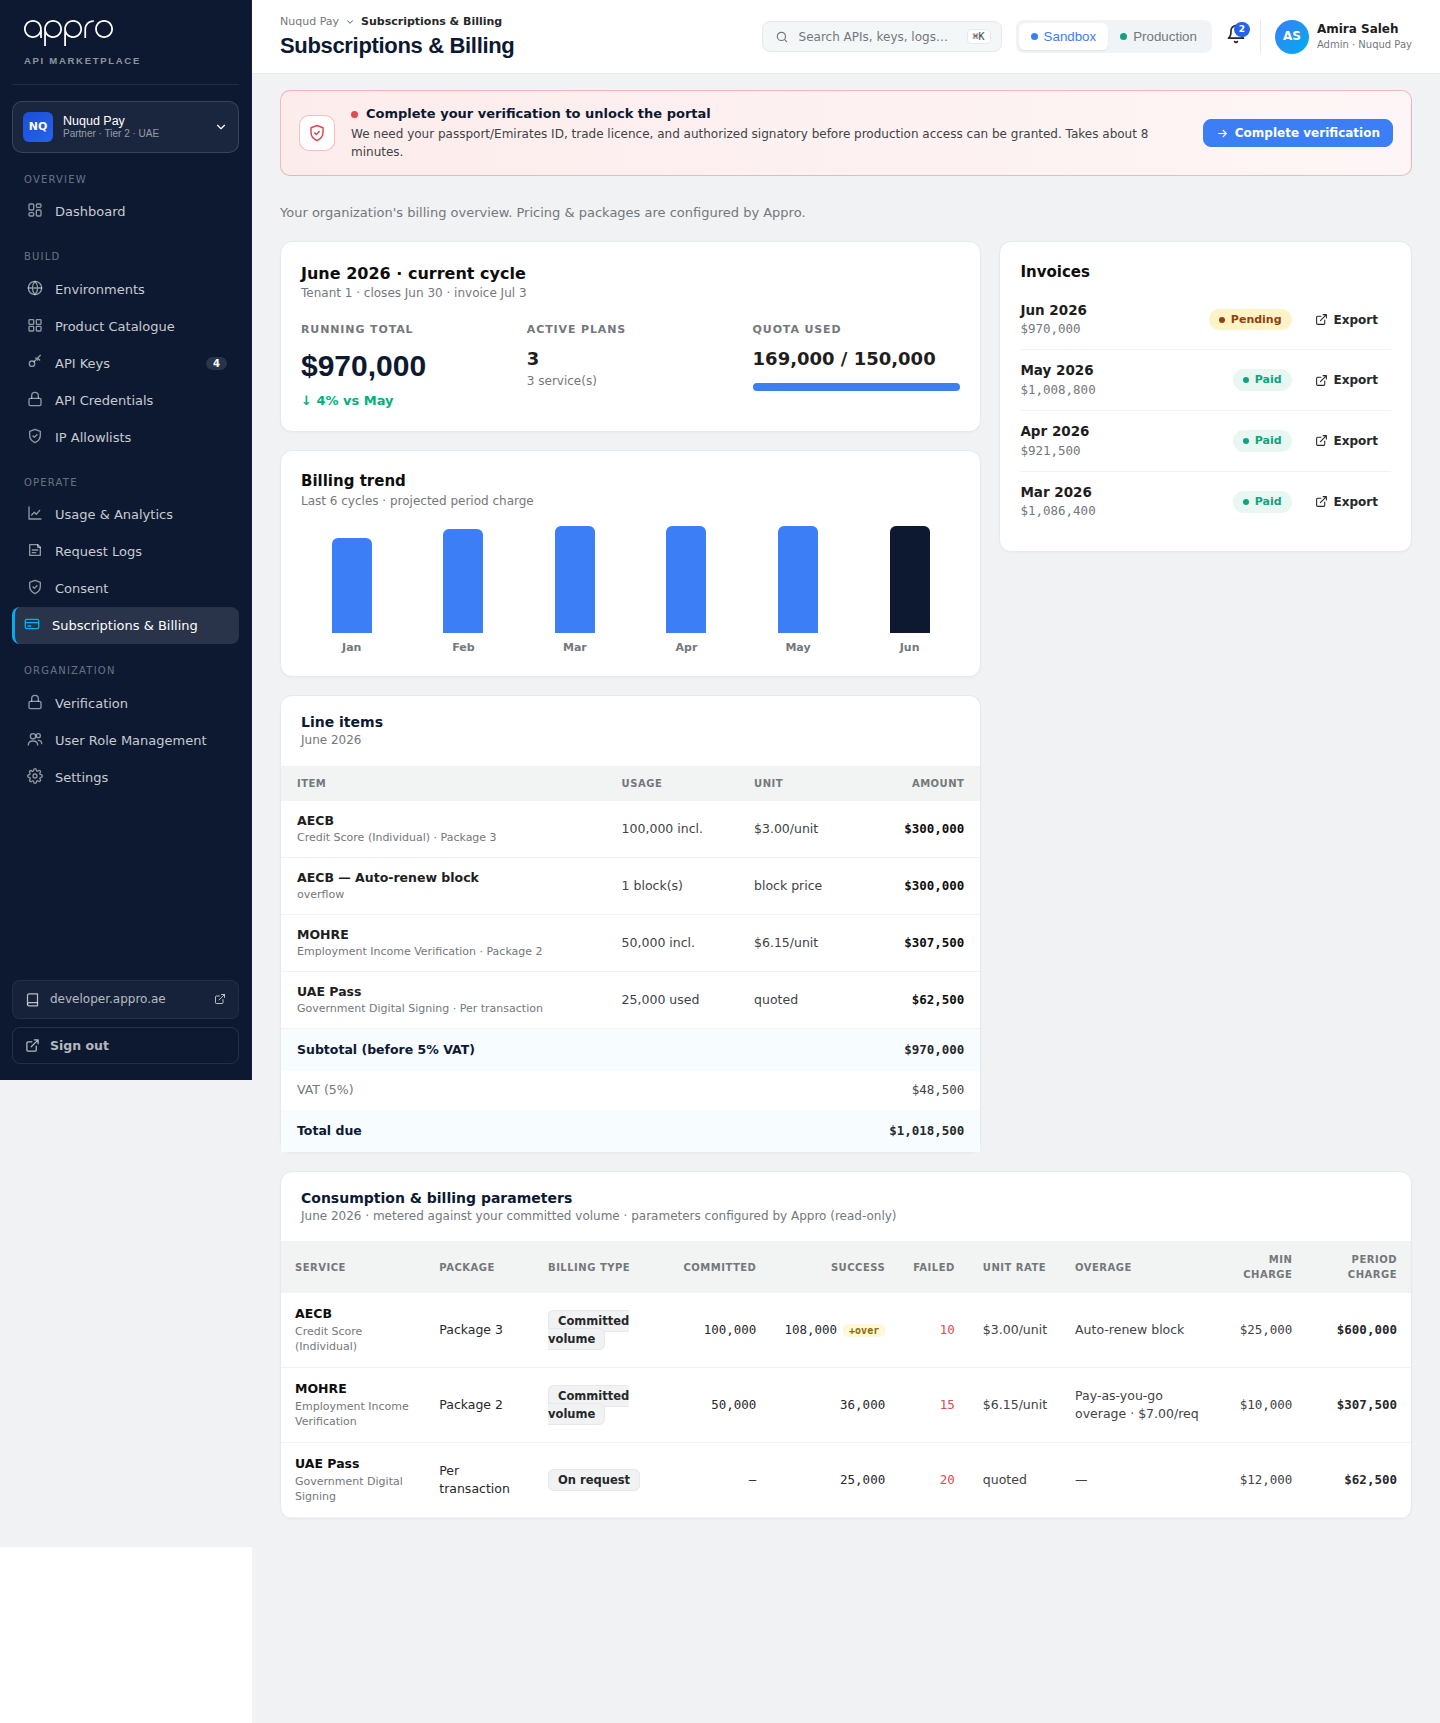
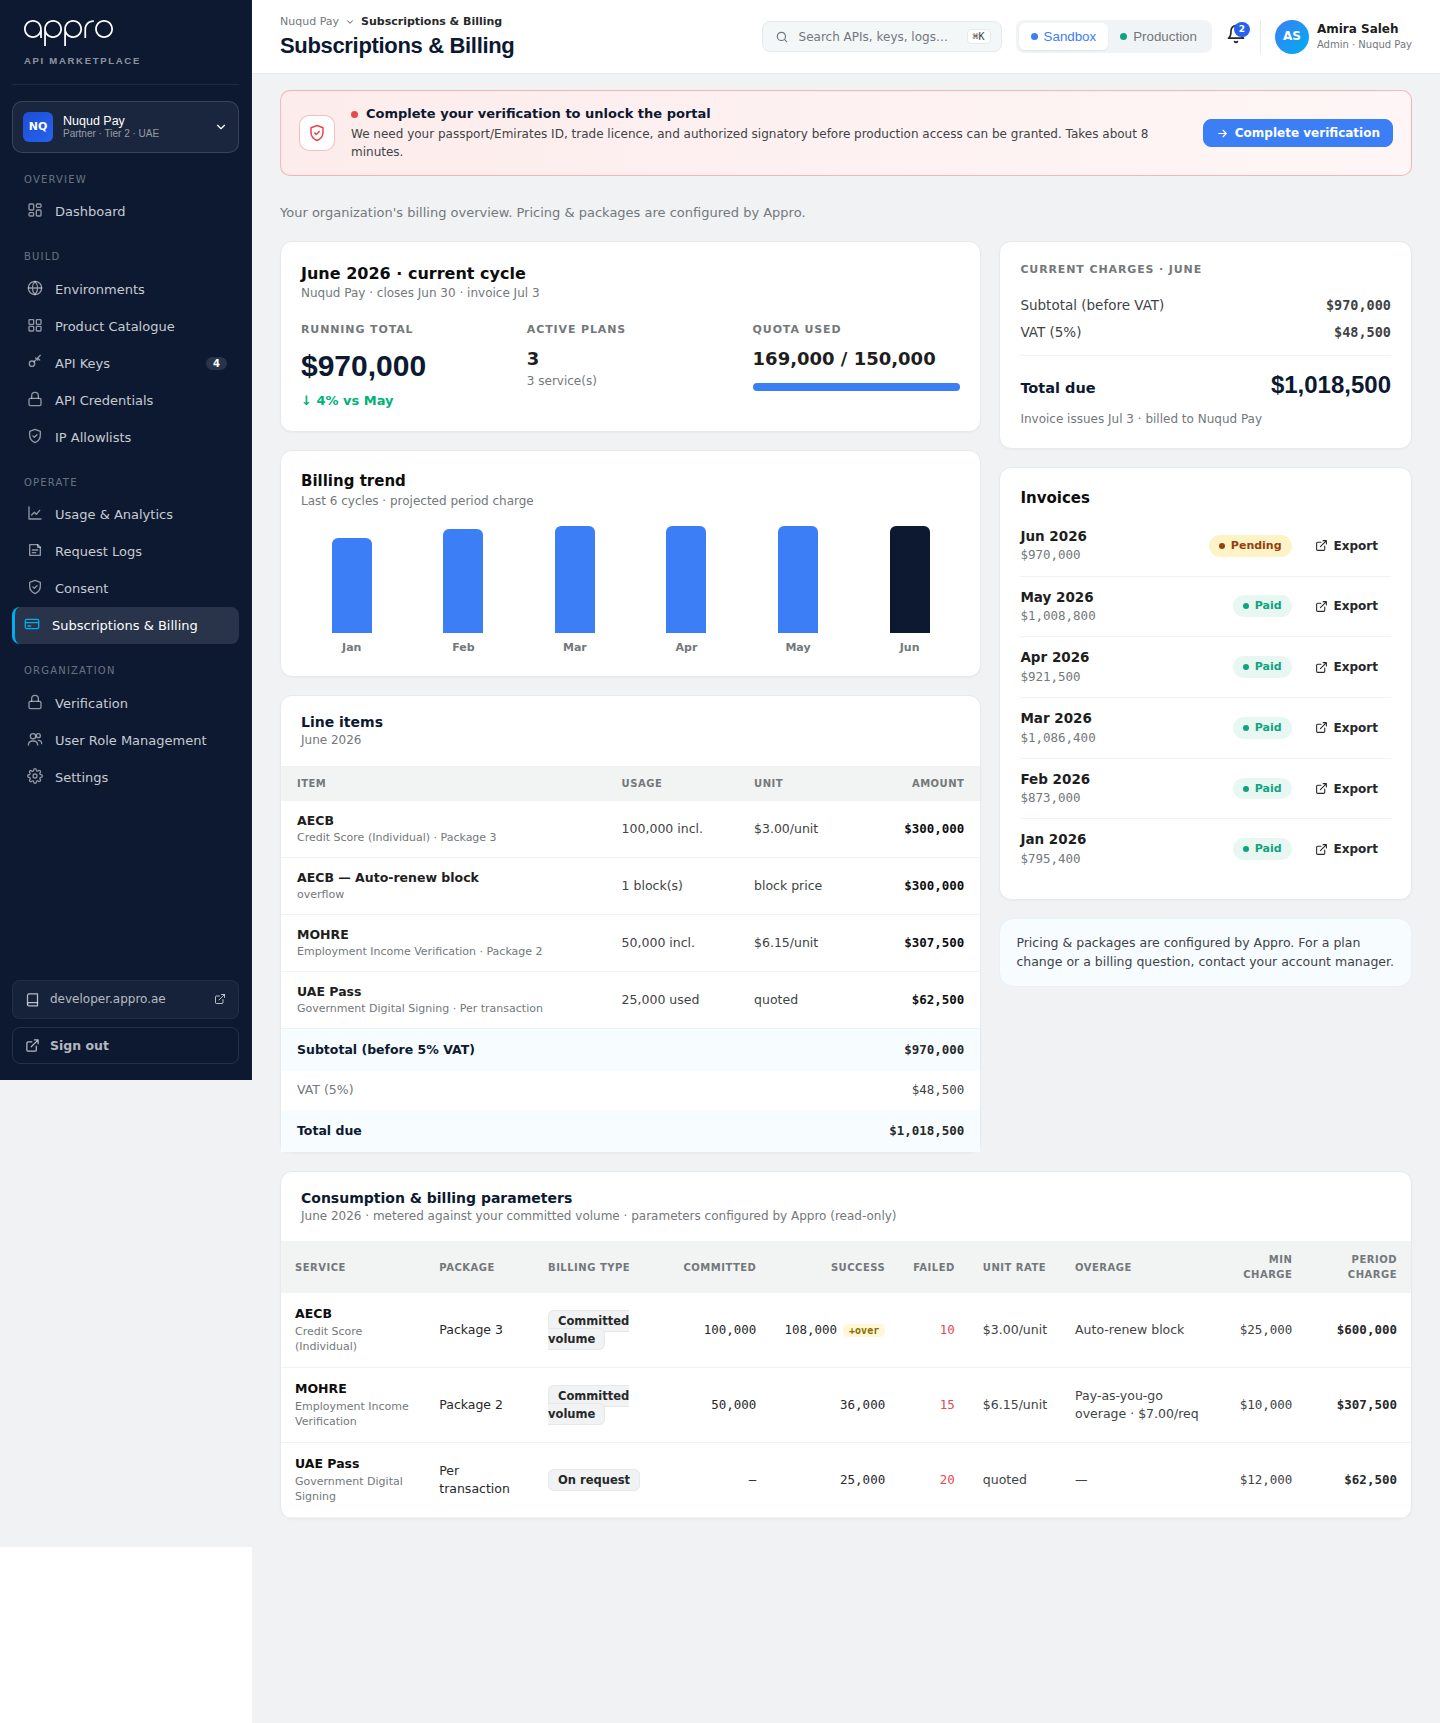
Tenant billing: rebalance right column — Current charges summary, 6-cycle invoices, info note
Fills the empty band under the Invoices card: a Current charges card
(subtotal / VAT / total due, invoice date), the Invoices list extended
to the same 6 cycles as the trend chart, and a pricing info note.
Screen shows the signed-in org name.

Claude-Session: https://claude.ai/code/session_01K4sYx62rsZE8FLFyiFKqEH

diff --git a/customer/js/08-customer-billing.jsx b/customer/js/08-customer-billing.jsx
@@ -5,6 +5,7 @@ const MYTENANT = 'T1';
 
 function CustomerBilling() {
   const t = CB.state.tenants.find(x => x.id === MYTENANT) || CB.state.tenants[0];
+  const orgName = 'Nuqud Pay'; // signed-in organization (portal identity, not the billing-model label)
   const rows = CB.deriveTenant(MYTENANT);
   const active = rows.filter(x => x.active);
 
@@ -30,7 +31,7 @@ function CustomerBilling() {
       <div style={{ display: 'grid', gridTemplateColumns: '1.7fr 1fr', gap: 18 }}>
           <div style={{ display: 'grid', gap: 18 }}>
             <Card>
-              <div><div style={{ fontWeight: 800, fontSize: 16, color: 'var(--ink-900)' }}>June 2026 · current cycle</div><div style={{ fontSize: 12, color: 'var(--ink-500)' }}>{t.name} · closes Jun 30 · invoice Jul 3</div></div>
+              <div><div style={{ fontWeight: 800, fontSize: 16, color: 'var(--ink-900)' }}>June 2026 · current cycle</div><div style={{ fontSize: 12, color: 'var(--ink-500)' }}>{orgName} · closes Jun 30 · invoice Jul 3</div></div>
               <div style={{ display: 'grid', gridTemplateColumns: 'repeat(3,1fr)', gap: 18, marginTop: 20 }}>
                 <div><div style={{ fontSize: 11, fontWeight: 800, letterSpacing: '.08em', color: 'var(--ink-500)', textTransform: 'uppercase' }}>Running total</div><div style={{ fontSize: 30, fontWeight: 800, color: '#0C1931', marginTop: 6, fontFamily: 'var(--font-display)' }}>{CB.fmtUSD0(subtotal)}</div><div style={{ fontSize: 13, fontWeight: 800, marginTop: 4, color: dp <= 0 ? 'var(--success)' : 'var(--danger)' }}>{dp <= 0 ? '↓ ' : '↑ '}{Math.abs(dp)}% vs May</div></div>
                 <div><div style={{ fontSize: 11, fontWeight: 800, letterSpacing: '.08em', color: 'var(--ink-500)', textTransform: 'uppercase' }}>Active plans</div><div style={{ fontSize: 18, fontWeight: 800, color: 'var(--ink-800)', marginTop: 8 }}>{active.length}</div><div style={{ fontSize: 12, color: 'var(--ink-500)' }}>{svcSet.size} service(s)</div></div>
@@ -68,8 +69,15 @@ function CustomerBilling() {
           </div>
           <div style={{ display: 'grid', gap: 18, alignContent: 'start' }}>
             <Card>
+              <div style={{ fontSize: 11, fontWeight: 800, letterSpacing: '.08em', color: 'var(--ink-500)', textTransform: 'uppercase', marginBottom: 14 }}>Current charges · June</div>
+              <div style={{ display: 'flex', justifyContent: 'space-between', fontSize: 13.5, color: 'var(--ink-600)', padding: '4px 0' }}><span>Subtotal (before VAT)</span><span style={{ fontFamily: 'var(--font-mono)', fontWeight: 600 }}>{CB.fmtUSD0(subtotal)}</span></div>
+              <div style={{ display: 'flex', justifyContent: 'space-between', fontSize: 13.5, color: 'var(--ink-600)', padding: '4px 0 12px', borderBottom: '1px solid var(--ink-100)' }}><span>VAT (5%)</span><span style={{ fontFamily: 'var(--font-mono)', fontWeight: 600 }}>{CB.fmtUSD0(vat)}</span></div>
+              <div style={{ display: 'flex', justifyContent: 'space-between', alignItems: 'baseline', paddingTop: 12 }}><span style={{ fontWeight: 800, fontSize: 14.5, color: '#0C1931' }}>Total due</span><span style={{ fontFamily: 'var(--font-display)', fontWeight: 800, fontSize: 24, color: '#0C1931' }}>{CB.fmtUSD0(total)}</span></div>
+              <div style={{ fontSize: 12, color: 'var(--ink-500)', marginTop: 8 }}>Invoice issues Jul 3 · billed to {orgName}</div>
+            </Card>
+            <Card>
               <div style={{ fontWeight: 800, fontSize: 15, color: 'var(--ink-900)', marginBottom: 6 }}>Invoices</div>
-              {[['Jun 2026', subtotal, false], ['May 2026', vals[4], true], ['Apr 2026', vals[3], true], ['Mar 2026', vals[2], true]].map((iv, i) => (
+              {[['Jun 2026', subtotal, false], ['May 2026', vals[4], true], ['Apr 2026', vals[3], true], ['Mar 2026', vals[2], true], ['Feb 2026', vals[1], true], ['Jan 2026', vals[0], true]].map((iv, i) => (
                 <div key={i} style={{ display: 'flex', alignItems: 'center', justifyContent: 'space-between', padding: '11px 0', borderTop: i ? '1px solid var(--ink-100)' : 0 }}>
                   <div><div style={{ fontWeight: 700, fontSize: 13.5, color: 'var(--ink-800)' }}>{iv[0]}</div><div style={{ fontFamily: 'var(--font-mono)', color: 'var(--ink-500)', fontSize: 12.5 }}>{CB.fmtUSD0(iv[1])}</div></div>
                   <div style={{ display: 'flex', alignItems: 'center', gap: 10 }}>
@@ -79,6 +87,9 @@ function CustomerBilling() {
                 </div>
               ))}
             </Card>
+            <div style={{ background: 'var(--appro-blue-50)', border: '1px solid var(--appro-blue-100)', borderRadius: 14, padding: '14px 16px', fontSize: 12.5, color: 'var(--ink-600)', lineHeight: 1.55 }}>
+              Pricing &amp; packages are configured by Appro. For a plan change or a billing question, contact your account manager.
+            </div>
           </div>
         </div>
 
